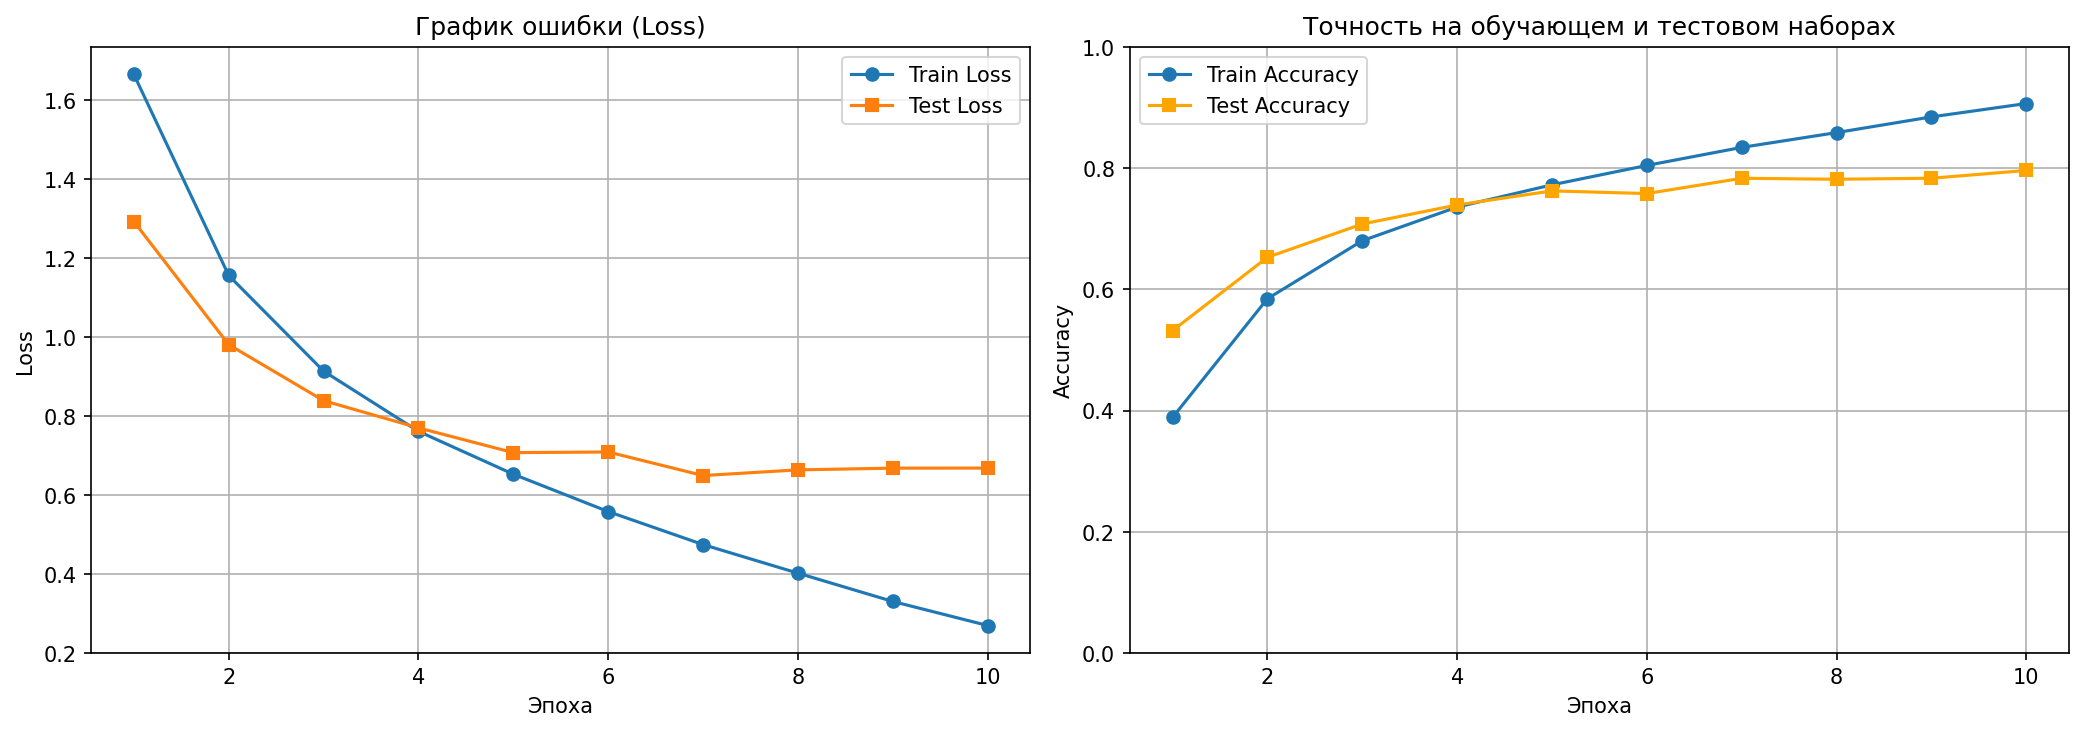
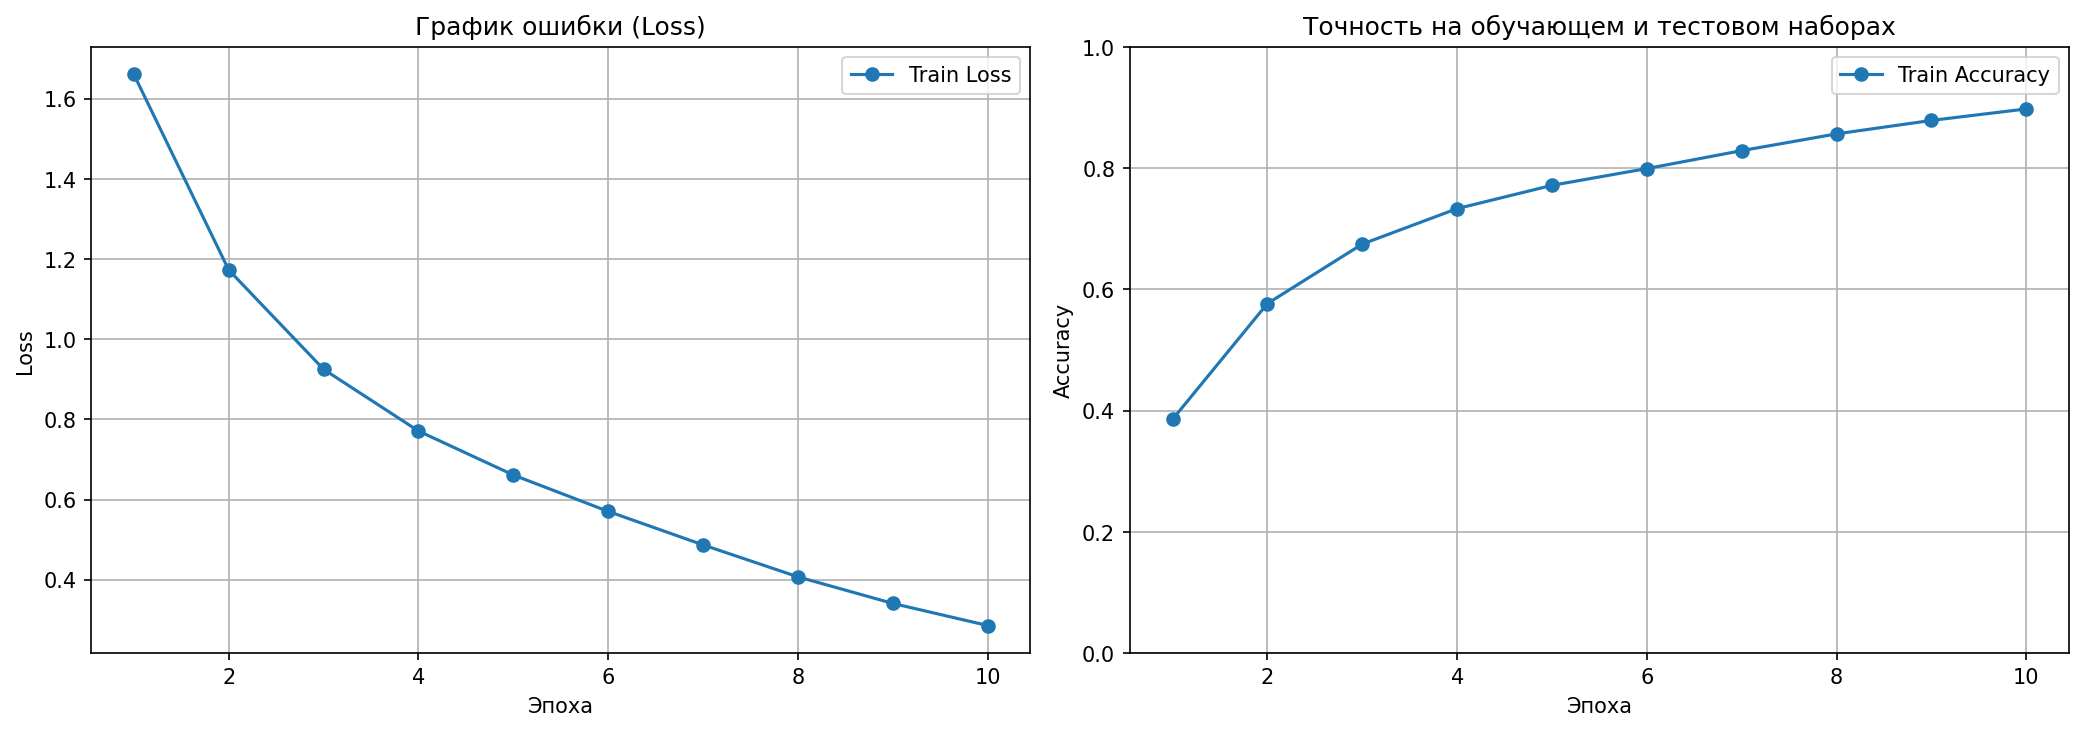
fix lab2

diff --git a/lab2/lab2copy2.py b/lab2/lab2copy2.py
@@ -1,0 +1,267 @@
+import torch
+import torch.nn as nn
+import torch.optim as optim
+import torchvision
+import torchvision.transforms as transforms
+from torch.utils.data import DataLoader
+import matplotlib.pyplot as plt
+import numpy as np
+import argparse
+from torchmetrics import Accuracy
+
+class SimpleCNN(nn.Module):
+    def __init__(self):
+        super().__init__()
+        self.features = nn.Sequential(
+            nn.Conv2d(3, 64, kernel_size=3, padding=1),
+            nn.ReLU(),
+            nn.MaxPool2d(2, 2),
+            nn.Conv2d(64, 128, kernel_size=3, padding=1),
+            nn.ReLU(),
+            nn.MaxPool2d(2, 2),
+            nn.Conv2d(128, 256, kernel_size=3, padding=1),
+            nn.ReLU(),
+            nn.MaxPool2d(2, 2),
+        )
+        self.classifier = nn.Sequential(
+            nn.Flatten(),
+            nn.Linear(256 * 4 * 4, 512),
+            nn.ReLU(),
+            nn.Dropout(0.5),
+            nn.Linear(512, 10),
+        )
+
+    def forward(self, x):
+        x = self.features(x)
+        x = self.classifier(x)
+        return x
+def train_model(model, trainloader, criterion, optimizer, device, num_epochs):
+    train_losses = []
+    train_accuracies = []
+
+    train_acc_metric = Accuracy(task="multiclass", num_classes=10).to(device)
+
+    for epoch in range(num_epochs):
+        model.train()
+        running_loss = 0.0
+        train_acc_metric.reset()
+
+        for inputs, labels in trainloader:
+            inputs, labels = inputs.to(device), labels.to(device)
+            optimizer.zero_grad()
+            outputs = model(inputs)
+            loss = criterion(outputs, labels)
+            loss.backward()
+            optimizer.step()
+
+            running_loss += loss.item()
+            train_acc_metric.update(outputs, labels)
+
+        epoch_loss = running_loss / len(trainloader)
+        epoch_acc = train_acc_metric.compute().item()
+
+        train_losses.append(epoch_loss)
+        train_accuracies.append(epoch_acc)
+
+        print(f"Эпоха [{epoch+1}/{num_epochs}] Train Loss: {epoch_loss:.4f}, Train Acc: {epoch_acc:.4f}")
+
+    return train_losses, train_accuracies
+
+def show_predictions(model, testloader, classes, device, num_images, save_path):
+    model.eval()
+    dataiter = iter(testloader)
+    images, labels = next(dataiter)
+    images, labels = images.to(device), labels.to(device)
+    
+    with torch.no_grad():
+        outputs = model(images)
+        _, predicted = torch.max(outputs, 1)
+    
+    images = images.cpu()
+    images = images / 2 + 0.5
+    fig, axes = plt.subplots(2, 4, figsize=(12, 6))
+    axes = axes.ravel()
+    for i in range(min(num_images, len(images))):
+        img = images[i].numpy()
+        img = np.transpose(img, (1, 2, 0))
+        axes[i].imshow(img)
+        axes[i].set_title(f'True: {classes[labels[i]]}\nPred: {classes[predicted[i]]}',
+                         color='green' if predicted[i] == labels[i] else 'red')
+        axes[i].axis('off')
+    
+    plt.tight_layout()
+    plt.savefig(save_path, dpi=100, bbox_inches='tight')
+    plt.show()
+
+    acc_metric = Accuracy(task="multiclass", num_classes=10).to(device)
+    batch_accuracy = acc_metric(outputs, labels).item()
+    print(f"Точность на этом батче: {100 * batch_accuracy:.2f}%")
+
+def evaluate(model, dataloader, criterion, device):
+    model.eval()
+    test_loss = 0.0
+    test_acc_metric = Accuracy(task="multiclass", num_classes=10).to(device)
+
+    with torch.no_grad():
+        for inputs, labels in dataloader:
+            inputs, labels = inputs.to(device), labels.to(device)
+            outputs = model(inputs)
+            test_loss += criterion(outputs, labels).item()
+            test_acc_metric.update(outputs, labels)
+
+    avg_test_loss = test_loss / len(dataloader)
+    test_acc = test_acc_metric.compute().item()
+    return avg_test_loss, test_acc
+
+def plot_training_history(train_losses, train_accuracies, save_path):
+
+    epochs = range(1, len(train_losses) + 1)
+
+    plt.figure(figsize=(14, 5))
+
+    plt.subplot(1, 2, 1)
+    plt.plot(epochs, train_losses, label='Train Loss', marker='o')
+    # plt.plot(epochs, test_losses, label='Test Loss', marker='s')
+    plt.title('График ошибки (Loss)')
+    plt.xlabel('Эпоха')
+    plt.ylabel('Loss')
+    plt.legend()
+    plt.grid(True)
+
+    plt.subplot(1, 2, 2)
+    plt.plot(epochs, train_accuracies, label='Train Accuracy', marker='o')
+    # plt.plot(epochs, test_accuracies, label='Test Accuracy', marker='s', color='orange')
+    plt.title('Точность на обучающем и тестовом наборах')
+    plt.xlabel('Эпоха')
+    plt.ylabel('Accuracy')
+    plt.ylim(0, 1)
+    plt.legend()
+    plt.grid(True)
+
+    plt.tight_layout()
+    plt.savefig(save_path, dpi=150, bbox_inches='tight')
+    print(f"График сохранён как '{save_path}'")
+
+def load_classes(file_path):
+    with open(file_path, 'r', encoding='utf-8') as f:
+        classes = [line.strip() for line in f if line.strip()]
+    return classes
+
+def cli_argument_parser():
+    parser = argparse.ArgumentParser(
+        description="Обучение и оценка CNN-модели на датасете CIFAR-10."
+    )
+
+    parser.add_argument('-dd', '--data_dir',
+                        help='Директория для загрузки/хранения датасета CIFAR-10',
+                        type=str,
+                        dest='data_dir',
+                        default='./data')
+
+    parser.add_argument('-cf', '--classes_file',
+                        help='Путь к файлу со списком классов (по одному на строку)',
+                        type=str,
+                        dest='classes_file',
+                        default='classes.txt')
+
+    parser.add_argument('-e', '--epochs',
+                        help='Количество эпох обучения',
+                        type=int,
+                        dest='epochs',
+                        default=10)
+
+    parser.add_argument('-bs', '--batch_size',
+                        help='Размер батча для DataLoader',
+                        type=int,
+                        dest='batch_size',
+                        default=64)
+    parser.add_argument('-lr', '--learning_rate',
+                        help='Скорость обучения для оптимизатора SGD',
+                        type=float,
+                        dest='learning_rate',
+                        default=0.01)
+
+    parser.add_argument('-mom', '--momentum',
+                        help='Моментум для оптимизатора SGD',
+                        type=float,
+                        dest='momentum',
+                        default=0.9)
+
+    parser.add_argument('-msp', '--model_save_path',
+                        help='Путь для сохранения весов модели',
+                        type=str,
+                        dest='model_save_path',
+                        default='cifar10_cnn.pth')
+
+    parser.add_argument('-hsp', '--history_save_path',
+                        help='Путь для сохранения графика истории обучения',
+                        type=str,
+                        dest='history_save_path',
+                        default='training_results.png')
+
+    parser.add_argument('-psp', '--predictions_save_path',
+                        help='Путь для сохранения изображения с предсказаниями',
+                        type=str,
+                        dest='predictions_save_path',
+                        default='predictions.png')
+    parser.add_argument('-ni', '--num_images',
+                        help='Количество изображений для визуализации предсказаний (макс. размер батча)',
+                        type=int,
+                        dest='num_images',
+                        default=8)
+
+    args = parser.parse_args()
+    return args
+
+def main(args):
+    device = torch.device("cuda" if torch.cuda.is_available() else "cpu")
+    print(f"Устройство: {device}")
+
+    transform = transforms.Compose([
+        transforms.ToTensor(),
+        transforms.Normalize((0.5, 0.5, 0.5), (0.5, 0.5, 0.5))
+    ])
+
+    trainset = torchvision.datasets.CIFAR10(root=args.data_dir, train=True, download=False, transform=transform)
+    testset = torchvision.datasets.CIFAR10(root=args.data_dir, train=False, download=False, transform=transform)
+
+    trainloader = DataLoader(trainset, batch_size=args.batch_size, shuffle=True, num_workers=2)
+    testloader = DataLoader(testset, batch_size=args.batch_size, shuffle=False, num_workers=2)
+
+    classes = load_classes(args.classes_file)
+    print(f"Классы: {classes}")
+    print(f"Обучающих изображений: {len(trainset)}")
+    print(f"Тестовых изображений: {len(testset)}")
+
+    model = SimpleCNN().to(device)
+    print("\nАрхитектура модели:")
+    print(model)
+
+    criterion = nn.CrossEntropyLoss()
+    optimizer = optim.SGD(model.parameters(), lr=args.learning_rate, momentum=args.momentum)
+
+    train_losses = []
+    train_accuracies = []
+    test_losses = []
+    test_accuracies = []
+
+    print("\nОбучение...\n")
+
+    
+    train_losses, train_accuracies = train_model(
+        model, trainloader, criterion, optimizer, device, args.epochs
+    )
+
+    test_losses, test_accuracies = evaluate(model, testloader, criterion, device)
+    print(f"\nФинальная точность: {100 * test_accuracies:.2f}%")
+
+    plot_training_history(train_losses, train_accuracies, save_path=args.history_save_path)
+    torch.save(model.state_dict(), args.model_save_path)
+    print(f"Модель сохранена как '{args.model_save_path}'")
+
+    print("\nВизуализация ...")
+    show_predictions(model, testloader, classes, device, num_images=args.num_images, save_path=args.predictions_save_path)
+
+if __name__ == '__main__':
+    args = cli_argument_parser()
+    main(args)
